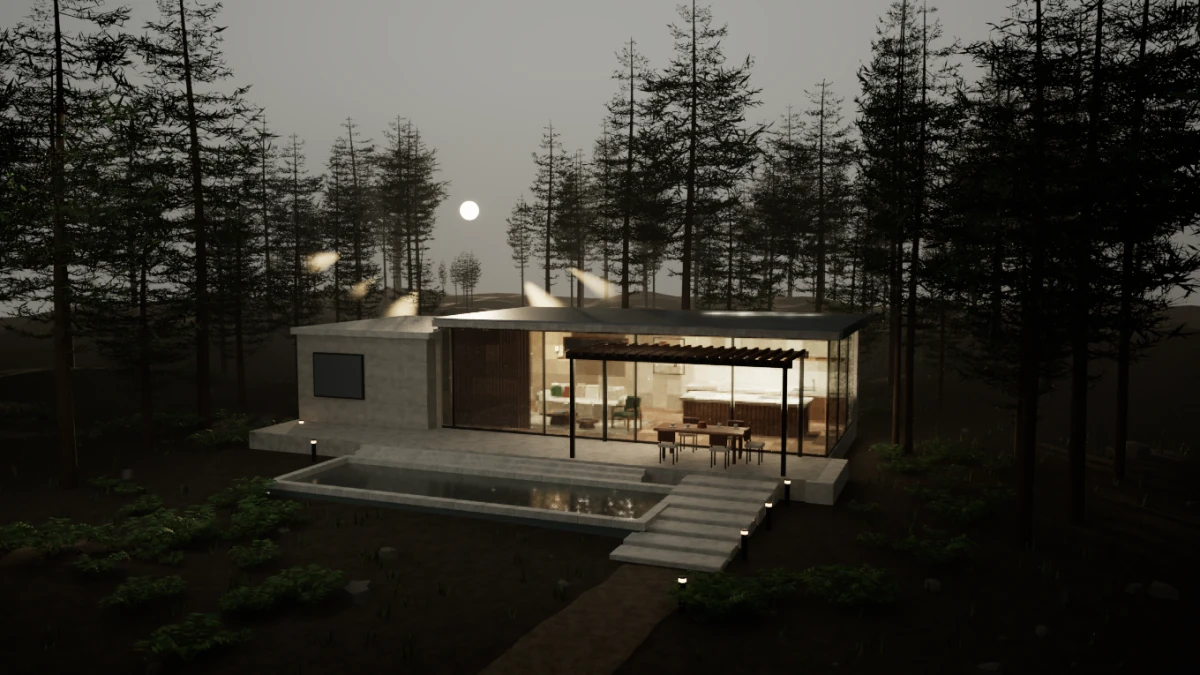
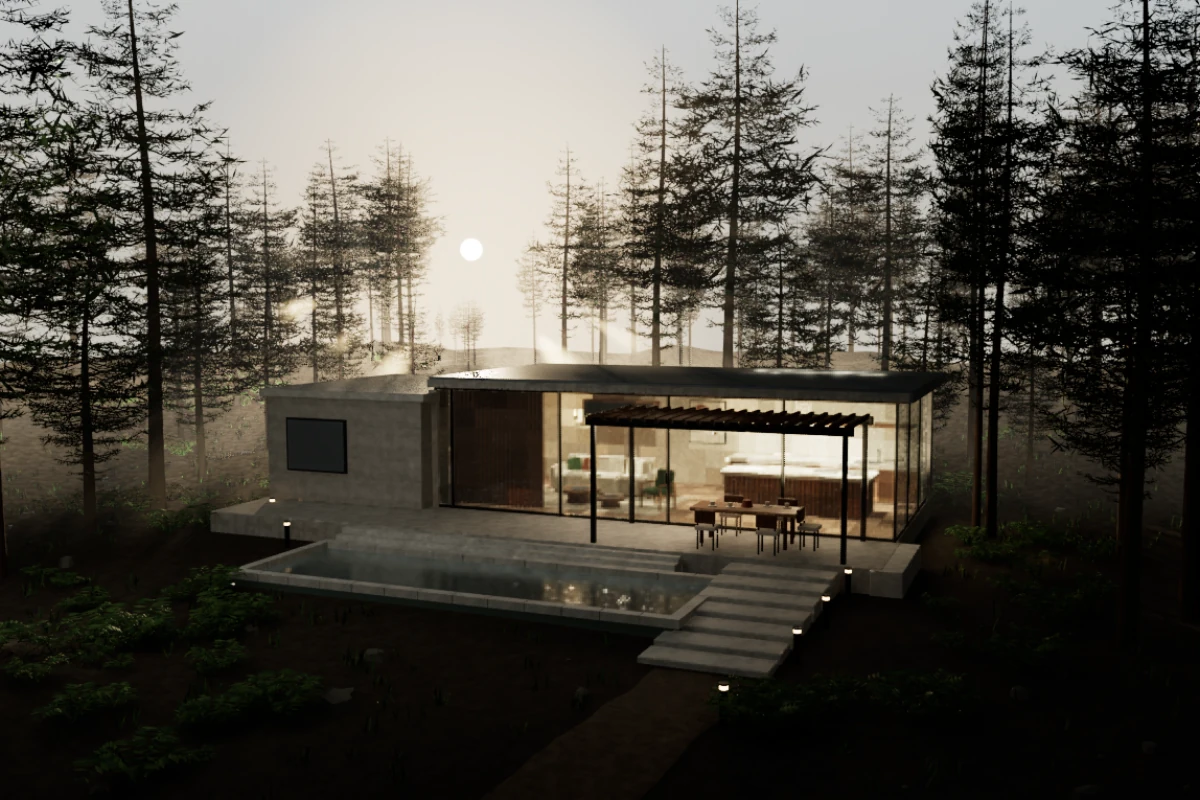
Improve ThreeRT sky and fog in the forest showcase

diff --git a/runtime/threert/scene.ts b/runtime/threert/scene.ts
@@ -2,14 +2,15 @@ import type { VfxProfile } from "../../src/shared/vfx.js";
 import {
   Scene, GLTFModel, PerspectiveCamera, DirectionalLight, PointLight, SpotLight, RectAreaLight,
   SkyGradient, SkyColor, Color, FogVolume, VolumeFunction, HomogeneousVolume, ExponentialHeightFog, RainCurtain,
-  VolumeMesh, Mesh, CircleGeometry, MeshBasicMaterial,
+  VolumeMesh, Mesh, CircleGeometry, MeshBasicMaterial, SphereGeometry, Texture, Vector3,
 } from "@threert/scene";
-import type { ExportEffects } from "../../src/render-effects.js";
+import type { ExportEffects, FogVolume as ExportedFog } from "../../src/render-effects.js";
 
 export type ThreeRTInput = {
   assetPrefix?: string;
   environment?: { zenith: number[]; horizon: number[]; ground: number[] };
   background?: number[];
+  skyRadianceScale?: number;
   camera: { position: number[]; quaternion: number[]; fov: number; aspect: number; near: number; far: number };
   profile: {
     vfx?: VfxProfile;
@@ -74,8 +75,38 @@ const gradientFog = new VolumeFunction("blender_gradient_fog", {
   `,
 });
 
+// Fit large atmospheric envelopes to the native lit height fog used by the live renderer.
+function heightFogFromRamps(volume: ExportedFog, eye: number[], forward: number[], ambient: Color) {
+  if (volume.ramps.length !== 2 || volume.density <= 0 || volume.emission.some(value => value !== 0) ||
+    !eye.every((value, axis) => value > volume.min[axis]! && value < volume.max[axis]!)) return;
+  const vertical = volume.ramps.find(ramp => ramp.axis === 1);
+  const horizontal = volume.ramps.find(ramp => ramp.axis !== 1);
+  if (!vertical || !horizontal || vertical.range[1] <= vertical.range[0] ||
+    vertical.density[1] <= 0 || vertical.density[0] <= vertical.density[1]) return;
+  const axis = horizontal.axis, heading = forward[axis]!;
+  if (Math.abs(heading) < 1e-6) return;
+  const times = horizontal.range.map(coordinate => (coordinate - eye[axis]!) / heading);
+  const nearDensity = horizontal.density[heading > 0 ? 0 : 1];
+  const farDensity = horizontal.density[heading > 0 ? 1 : 0];
+  const end = Math.min(...forward.map((direction, i) => Math.abs(direction) < 1e-6 ? Infinity :
+    ((direction > 0 ? volume.max[i]! : volume.min[i]!) - eye[i]!) / direction));
+  if (nearDensity >= farDensity || Math.min(...times) < 0 || Math.max(...times) > end) return;
+  // The area missing from the increasing horizontal ramp is an equivalent clear starting distance.
+  const start = (1 - nearDensity / farDensity) * (times[0]! + times[1]!) / 2;
+  const falloff = Math.log(vertical.density[0] / vertical.density[1]) / (vertical.range[1] - vertical.range[0]);
+  const density = volume.density * farDensity * vertical.density[0];
+  const fog = new ExponentialHeightFog(density, falloff, ambient.clone().multiply(color(volume.albedo)));
+  fog.height = vertical.range[0];
+  fog.startDistance = start;
+  fog.maxOpacity = -Math.expm1(-density * Math.exp(-falloff * (eye[1]! - fog.height)) * (end - start));
+  fog.setVolumetric(1, volume.anisotropy);
+  fog.volumetric!.albedo = volume.albedo;
+  fog.volumetric!.distance = end;
+  return fog;
+}
+
 /** Import the saved camera and source lighting; the input GLB contains unbaked PBR materials. */
-export function buildThreeRTScene({ camera: view, profile, assetPrefix = "", environment, background }: ThreeRTInput) {
+export function buildThreeRTScene({ camera: view, profile, assetPrefix = "", environment, background, skyRadianceScale }: ThreeRTInput) {
   const scene = new Scene();
   scene.add(new GLTFModel(`${assetPrefix}model.glb`));
   scene.environment = environment ? new SkyGradient({ zenith: color(environment.zenith), horizon: color(environment.horizon),
@@ -101,9 +132,24 @@ export function buildThreeRTScene({ camera: view, profile, assetPrefix = "", env
   }
   const solar = profile.effects?.sun;
   const solarDistance = Math.max(view.far * 2, 100000);
+  const skyDistance = solarDistance * 1.02;
+  const showPanorama = skyRadianceScale !== undefined && !profile.render.filmTransparent;
+  if (showPanorama) {
+    const material = new MeshBasicMaterial({
+      map: new Texture(`${assetPrefix}sky.png`), color: new Color().setRGB(skyRadianceScale, skyRadianceScale, skyRadianceScale),
+      side: "double", transparent: true,
+    });
+    // Put the panorama behind the solar disk and use the native translucency pass for the visible sky.
+    const sky = new Mesh(new SphereGeometry(skyDistance, 64, 32), material);
+    sky.name = "Sky panorama";
+    sky.castShadow = false;
+    sky.position.set(view.position[0]!, view.position[1]!, view.position[2]!);
+    sky.rotation.y = profile.world.environmentRotationY ?? 0;
+    scene.add(sky);
+  }
   if (sun && solar) {
     sun.angularDiameter = solar.angularRadius * 360 / Math.PI;
-    if (!profile.render.filmTransparent) {
+    if (!profile.render.filmTransparent && !(showPanorama && solar.inBackground)) {
       const { angularRadius, direction, radiance } = solar;
       const disk = new Mesh(new CircleGeometry(solarDistance * Math.tan(angularRadius), 48), new MeshBasicMaterial({ color: color(radiance) }));
       disk.name = "Solar disk";
@@ -127,8 +173,23 @@ export function buildThreeRTScene({ camera: view, profile, assetPrefix = "", env
     volume.scale.set(...size);
     scene.add(volume);
   }
+  const far = showPanorama ? skyDistance * 1.01 : solar ? solarDistance * 1.01 : view.far;
+  const camera = new PerspectiveCamera(view.fov, view.aspect, view.near, far);
+  camera.position.set(view.position[0]!, view.position[1]!, view.position[2]!);
+  camera.quaternion.set(view.quaternion[0]!, view.quaternion[1]!, view.quaternion[2]!, view.quaternion[3]!);
+  const worldVolume = profile.vfx?.volumes?.find(volume => !volume.min || !volume.max);
+  const mist = profile.postprocessing?.haze;
+  const forward = new Vector3(0, 0, -1).applyQuaternion(camera.quaternion).toArray();
+  const ambient = color(environment?.horizon ?? profile.world.color).multiplyScalar(profile.world.strength);
   for (const fog of profile.effects?.fog ?? []) {
     if (profile.vfx?.volumes?.some(volume => volume.name === fog.name)) continue;
+    if (sun && !worldVolume && !mist && !scene.fog) {
+      const heightFog = heightFogFromRamps(fog, view.position, forward, ambient);
+      if (heightFog) {
+        scene.fog = heightFog;
+        continue;
+      }
+    }
     const { min, max, density, ramps, emission, albedo, anisotropy } = fog;
     const ramp = (index: number): [number, number, number, number] =>
       ramps[index] ? [...ramps[index]!.range, ...ramps[index]!.density] : [0, 1, 1, 1];
@@ -156,8 +217,6 @@ export function buildThreeRTScene({ camera: view, profile, assetPrefix = "", env
     fog.scale.set(volume.radius[0]! * 2, volume.radius[2]! * 2, volume.radius[1]! * 2);
     scene.add(fog);
   }
-  const worldVolume = profile.vfx?.volumes?.find(volume => !volume.min || !volume.max);
-  const mist = profile.postprocessing?.haze;
   if (worldVolume) {
     const height = worldVolume.height;
     const fog = new ExponentialHeightFog(worldVolume.density, height ? 1 / height.depth : 0, color(worldVolume.color));
@@ -194,16 +253,12 @@ export function buildThreeRTScene({ camera: view, profile, assetPrefix = "", env
       speed: Math.abs(precipitation.velocity[1]), wind: [precipitation.velocity[0], precipitation.velocity[2]],
       width: precipitation.radius * 2, length: precipitation.streak, color: precipitation.color, emissive: precipitation.emission }));
   }
-  const camera = new PerspectiveCamera(view.fov, view.aspect, view.near, solar ? solarDistance * 1.01 : view.far);
-  camera.position.set(view.position[0]!, view.position[1]!, view.position[2]!);
-  camera.quaternion.set(view.quaternion[0]!, view.quaternion[1]!, view.quaternion[2]!, view.quaternion[3]!);
   camera.setManualExposure(-profile.colorManagement.exposure);
   scene.add(camera);
   return { scene, camera, options: { name: "Blender scene · ThreeRT", preset: "cinematic" as const,
     width: profile.render.resolutionX, height: profile.render.resolutionY,
-    // Do not add the cinematic preset's gamut expansion / blue correction to Blender's linear colors.
-    // ThreeRT still uses its native Filmic curve; this does not reproduce the exported AgX display LUT.
-    overrides: { post: { colorGrading: { expandGamut: 0, blueCorrection: 0 },
+    // Keep ThreeRT's native Filmic display curve and turn off the preset's extra grading and vignette.
+    overrides: { post: { vignette: 0, colorGrading: { expandGamut: 0, blueCorrection: 0 },
       bloom: { intensity: profile.postprocessing?.bloom?.strength ?? 0,
       threshold: profile.postprocessing?.bloom?.threshold ?? 1.2 } } } } };
 }

diff --git a/tests/threert.test.ts b/tests/threert.test.ts
@@ -1,6 +1,6 @@
 import test from "node:test";
 import assert from "node:assert/strict";
-import { mkdtempSync, mkdirSync, readFileSync, writeFileSync } from "node:fs";
+import { mkdtempSync, mkdirSync, readFileSync, rmSync, writeFileSync } from "node:fs";
 import { tmpdir } from "node:os";
 import { join } from "node:path";
 import { BlenderClient } from "../src/service/blender.js";
@@ -9,6 +9,8 @@ import { cameraFromGLB, modelWithoutPunctualLights, renderThreeRT } from "../src
 import { buildThreeRTScene, type ThreeRTInput } from "../runtime/threert/scene.js";
 import { DirectionalLight, FogVolume, HomogeneousVolume, RainCurtain, VolumeMesh } from "@threert/scene";
 import { PNG } from "pngjs";
+import { DataTexture, FloatType, RGBAFormat } from "three";
+import { EXRExporter, NO_COMPRESSION } from "three/addons/exporters/EXRExporter.js";
 
 function glb(cameraType = "perspective") {
   const text = JSON.stringify({ nodes: [{ translation: [10, 0, 0], children: [1] },
@@ -23,6 +25,40 @@ function glb(cameraType = "perspective") {
 const profile = { colorManagement: { exposure: 0.65 }, render: { resolutionX: 1280, resolutionY: 640 },
   camera: { name: "Main" }, world: { color: [0.1, 0.1, 0.1], strength: 1 }, lights: [],
   previewAppearance: { dust: { color: [0.8, 0.7, 0.6], volumes: [{ center: [2, 3, 4], radius: [5, 6, 7], density: 0.1 }] } } };
+
+test("native visible sky preserves panorama orientation and radiance separately from ambient lighting", async () => {
+  const directory = mkdtempSync(join(tmpdir(), "threert-sky-"));
+  const cli = join(directory, "threert");
+  const data = new Float32Array([
+    0.25, 0, 0, 1, 0.5, 0, 0, 1,
+    0, 0.25, 0, 1, 0, 0.5, 0, 1,
+    0, 0, 1, 1, 0, 0, 2, 1,
+  ]);
+  const sky = new DataTexture(data, 2, 3, RGBAFormat, FloatType);
+  const exr = Buffer.from(await new EXRExporter().parse(sky, { compression: NO_COMPRESSION, type: FloatType }));
+  const stubImage = PNG.sync.write(new PNG({ width: 1, height: 1 })).toString("base64");
+  writeFileSync(cli, `#!/usr/bin/env node
+require("node:fs").writeFileSync(process.argv[process.argv.indexOf("-o") + 1], Buffer.from("${stubImage}", "base64"));
+`, { mode: 0o755 });
+  try {
+    writeFileSync(join(directory, "final.glb"), glb());
+    writeFileSync(join(directory, "environment.exr"), exr);
+    writeFileSync(join(directory, "render-profile.json"), JSON.stringify({ ...profile, world: { ...profile.world,
+      environmentUri: "environment.exr", backgroundEnvironmentUri: `data:application/octet-stream;base64,${exr.toString("base64")}`,
+      environmentRotationY: Math.PI / 2 } }));
+    await renderThreeRT(directory, cli);
+    const input: ThreeRTInput = JSON.parse(readFileSync(join(directory, "input.json"), "utf8"));
+    assert.deepEqual(input.environment, { zenith: [0, 0, 1.5], horizon: [0, 0.375, 0], ground: [0.375, 0, 0] });
+    assert.equal(input.skyRadianceScale, 2);
+    const png = PNG.sync.read(readFileSync(join(directory, "assets", "sky.png")));
+    assert.deepEqual([...png.data.subarray(0, 8)], [0, 0, 255, 255, 0, 0, 188, 255]);
+    assert.deepEqual([...png.data.subarray(16, 20)], [137, 0, 0, 255]);
+    const { scene } = buildThreeRTScene(input);
+    assert.equal(scene.children.find(child => child.name === "Sky panorama")?.rotation.y, Math.PI / 2);
+  } finally {
+    rmSync(directory, { recursive: true, force: true });
+  }
+});
 
 test("native models normalize RGB16 and RGBA16 PNGs without changing source, mesh bytes or 8-bit textures", () => {
   const pixel = (data: Buffer) => Object.assign(new PNG({ width: 1, height: 1 }), { data });
@@ -103,6 +139,23 @@ test("native sunlight and volume shaders use the exported sun and shaft axis", (
   assert.deepEqual(shaft.volume.params.Start, [1, 2, 6, 0.2]);
   assert.deepEqual(shaft.volume.params.End, [1, 2, 4, 0.4]);
   assert.ok(shaft.majorant >= 0.02);
+
+  input.profile.effects.fog = [
+    { name: "air", min: [-20, 0, -30], max: [20, 20, 10], density: 1,
+      ramps: [{ axis: 2, range: [-15, -5], density: [0.02, 0.005] }, { axis: 1, range: [0, 10], density: [1, 0.5] }],
+      emission: [0, 0, 0], albedo: [1, 0.9, 0.8], anisotropy: 0.6 },
+  ];
+  input.skyRadianceScale = 1;
+  const fittedScene = buildThreeRTScene(input).scene;
+  assert.ok(fittedScene.fog?.volumetric);
+  assert.equal(fittedScene.fog.startDistance, 11.25);
+  assert.equal(fittedScene.fog.volumetric.distance, 35);
+  assert.deepEqual(fittedScene.fog.volumetric.albedo, [1, 0.9, 0.8]);
+  assert.ok(fittedScene.children.some(child => child.name === "Sky panorama"));
+  assert.ok(!fittedScene.children.some(child => child.name === "Solar disk"), "The panorama already contains the sun");
+  assert.ok(!fittedScene.children.some(child => child.name === "air"), "Avoid counting both haze approximations");
+  input.camera.position[1] = 30;
+  assert.ok(buildThreeRTScene(input).scene.children.some(child => child.name === "air"), "Preserve a local volume viewed from outside");
 });
 
 test("ThreeRT preserves a parented camera and converts local dust from Z-up to Y-up", () => {

diff --git a/src/service/threert.ts b/src/service/threert.ts
@@ -12,12 +12,16 @@ import type { ThreeRTInput } from "../../runtime/threert/scene.js";
 
 const execute = promisify(execFile);
 
-function environmentBands(bytes: Buffer): NonNullable<ThreeRTInput["environment"]> {
-  const exr = new EXRLoader().setDataType(FloatType).parse(new Uint8Array(bytes).buffer);
+function readPanorama(bytes: Buffer) {
+  return new EXRLoader().setDataType(FloatType).parse(new Uint8Array(bytes).buffer);
+}
+
+function environmentBands(exr: ReturnType<typeof readPanorama>): NonNullable<ThreeRTInput["environment"]> {
   const bands = { zenith: [0, 0, 0], horizon: [0, 0, 0], ground: [0, 0, 0] }, counts = { zenith: 0, horizon: 0, ground: 0 };
   const stride = exr.data.length / (exr.width * exr.height);
   for (let y = 0; y < exr.height; y++) {
-    const band = y < exr.height * 0.2 ? "zenith" : y > exr.height * 0.8 ? "ground" : Math.abs(y / exr.height - 0.5) < 0.1 ? "horizon" : undefined;
+    const latitude = (y + 0.5) / exr.height;
+    const band = latitude < 0.2 ? "ground" : latitude > 0.8 ? "zenith" : Math.abs(latitude - 0.5) < 0.1 ? "horizon" : undefined;
     if (!band) continue;
     for (let x = 0; x < exr.width; x++) {
       const offset = (y * exr.width + x) * stride;
@@ -27,6 +31,29 @@ function environmentBands(bytes: Buffer): NonNullable<ThreeRTInput["environment"
   }
   for (const band of ["zenith", "horizon", "ground"] as const) bands[band] = bands[band].map(value => value / Math.max(1, counts[band]));
   return bands;
+}
+
+function encodeSkyPanorama({ width, height, data }: ReturnType<typeof readPanorama>) {
+  const stride = data.length / (width * height);
+  let radianceScale = 1;
+  for (let i = 0; i < data.length; i += stride) {
+    radianceScale = Math.max(radianceScale, data[i]!, data[i + 1]!, data[i + 2]!);
+  }
+  const png = new PNG({ width, height });
+  // EXRLoader stores rows bottom-up. The native sphere reverses the equirectangular longitude.
+  for (let y = 0; y < height; y++) {
+    for (let x = 0; x < width; x++) {
+      const source = ((height - 1 - y) * width + width - 1 - x) * stride;
+      const target = (y * width + x) * 4;
+      for (let channel = 0; channel < 3; channel++) {
+        const linear = Math.max(0, data[source + channel]!) / radianceScale;
+        const srgb = linear <= 0.0031308 ? 12.92 * linear : 1.055 * linear ** (1 / 2.4) - 0.055;
+        png.data[target + channel] = Math.round(255 * srgb);
+      }
+      png.data[target + 3] = 255;
+    }
+  }
+  return { bytes: PNG.sync.write(png), radianceScale };
 }
 
 export function threeRTCapability() {
@@ -143,14 +170,12 @@ export async function renderThreeRT(directory: string, binary: string) {
     warnings.push(`ThreeRT 使用原生 Filmic 色调映射，未应用 Blender 的 ${profile.colorManagement.viewTransform} 显示 LUT。`);
   }
   if (profile.world.environmentUri) {
-    input.environment = environmentBands(await readFile(join(directory, "environment.exr")));
-    warnings.push("环境贴图使用渐变天空近似。");
+    input.environment = environmentBands(readPanorama(await readFile(join(directory, "environment.exr"))));
+    warnings.push("ThreeRT 使用渐变天空近似环境照明。");
   }
   const background = profile.world.backgroundEnvironmentUri;
-  if (typeof background === "string" && background.startsWith("data:")) {
-    const bands = environmentBands(Buffer.from(background.split(",")[1]!, "base64"));
-    input.background = bands.horizon;
-  }
+  const panorama = !profile.render.filmTransparent && typeof background === "string" && background.startsWith("data:")
+    ? readPanorama(Buffer.from(background.split(",")[1]!, "base64")) : undefined;
   await writeFile(join(directory, "model.glb"), modelWithoutPunctualLights(glb));
   input.camera.aspect = profile.render.resolutionX / profile.render.resolutionY;
   const adapter = fileURLToPath(new URL("../../runtime/threert/scene.ts", import.meta.url));
@@ -160,6 +185,13 @@ export async function renderThreeRT(directory: string, binary: string) {
     await mkdir(join(directory, "assets"), { recursive: true });
     await copyFile(join(directory, "model.glb"), join(directory, "assets/model.glb"));
     if (profile.world.environmentUri) await copyFile(join(directory, "environment.exr"), join(directory, "assets/environment.exr"));
+    if (panorama) {
+      const { bytes, radianceScale } = encodeSkyPanorama(panorama);
+      await writeFile(join(directory, "assets/sky.png"), bytes);
+      input.skyRadianceScale = radianceScale;
+    }
+  } else if (panorama) {
+    input.background = environmentBands(panorama).horizon;
   }
   // The macOS CLI's host uses its bundled SDK. Resolve scene classes to that same SDK to preserve instanceof checks.
   const bundledScene = resolve(dirname(realpathSync(binary)), "../Resources/sdk/engine/packages/scene/src/index.ts");

diff --git a/README.md b/README.md
@@ -43,8 +43,8 @@ from a single reference. The previews show the same scene after export.
   </tr>
 </table>
 
-The ThreeRT image uses simplified tree geometry. Fog, shadows and reflections
-vary between renderers.
+The ThreeRT image uses simplified tree geometry and is cropped to match the Blender framing.
+Fog, shadows and reflections vary between renderers.
 
 ## What's in the plugin
 
@@ -115,6 +115,10 @@ Use the preview selector to switch to **Three.js · 网页交互** for quick
 navigation and layout checks. Select **Render** to compare with the Blender
 image. Appearance can differ between preview modes; use the Blender render
 when reviewing the final look.
+
+ThreeRT approximates Blender's HDR environment lighting with a gradient sky.
+The native client displays the baked sky panorama when the export includes one.
+See the [upstream HDRI request](https://github.com/meshy-dev/ThreeRT/issues/178).
 
 For static scenes, ask the agent to optimize the browser preview for smoother
 navigation. If ThreeRT is unavailable, you can explore the scene with Three.js.
